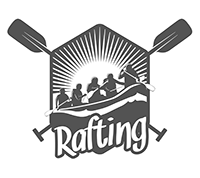
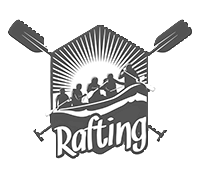
contact us page with forms

diff --git a/wwr/contactus.html b/wwr/contactus.html
@@ -1,0 +1,80 @@
+<!DOCTYPE html>
+<html lang="en">
+<head>
+    <meta charset="UTF-8">
+    <meta name="viewport" content="width=device-width, initial-scale=1.0">
+    <title>Rafting | Contact Us</title>
+    <link rel="stylesheet" href="styles/style.css">
+</head>
+<body>
+    <div class="content">
+        <header>
+            <a id = "logo_link" href = "index.html">
+            <img class = "logo" src = "images/rafting.png" alt = "Dry Oar Logo">
+            </a>
+            <nav>
+                <a href="index.html">Home</a>
+                <a href="faq.html" target="_blank">FAQ</a>
+                <a href="site-plan-rafting.html" target="_blank">Site Plan</a>
+                <a href="contactus.html" target="_blank">Contact Us</a>
+            </nav>
+        </header>
+        <main class="contact">
+            <div id="feedback"></div>
+            <h1>Contact Us Here</h1>
+            <form action="/my-handling-form-page" method="post">
+                <ul>
+                  <li>
+                    <label for="name">Name:</label>
+                    <input type="text" required id="name" name="user_name" />
+                  </li>
+                  <li>
+                    <label for="mail">Email:</label>
+                    <input type="email" required id="mail" name="user_email" placeholder="youremail@here.com" />
+                  </li>
+                  <li>
+                    <label for="msg">Message:</label>
+                    <textarea id="msg" name="user_message"></textarea>
+                  </li>
+                  <li class="button">
+                    <button type="submit">Submit</button>
+                  </li>
+                </ul>
+              </form>
+        </main>
+        <footer>
+            <p>Dry Oar &copy; 2024 - Makay Balzen</p>
+            <p><a href="site-plan-rafting.html">Site Plan</a></p>
+            <p><a href="contactus.html">Contact Us</a></p>
+            <div class="social">
+                <a href="https://facebook.com" target="_blank">
+                    <img src="images/facebook.png" alt="fb icon">
+                </a>
+                <a href="https://twitter.com" target="_blank">
+                    <img src="images/twitter.png" alt="twitter icon">
+                </a>
+                <a href="https://instagram.com" target="_blank">
+                    <img src="images/instagram.png" alt="instagram icon">
+                </a>
+            </div>
+        </footer>
+    </div>
+    <script>
+        // get the feedback div element so we can do something with it.
+        const feedbackElement = document.getElementById('feedback');
+        // get the form so we can read what was entered in it.
+        const formElement = document.forms[0];
+        // add a 'listener' to wait for a submission of our form. When that happens run the code below.
+        formElement.addEventListener('submit', function(e) {
+            // stop the form from doing the default action.
+            e.preventDefault();
+            // set the contents of our feedback element to a message letting the user know the form was submitted successfully. Notice that we pull the name that was entered in the form to personalize the message!
+            feedbackElement.innerHTML = 'Hello '+ formElement.user_name.value +'! Thank you for your message. We will get back with you as soon as possible!';
+            // make the feedback element visible.
+            feedbackElement.style.display = "block";
+            // add a class to move everything down so our message doesn't cover it.
+            document.body.classList.toggle('moveDown');
+        });
+    </script>
+</body>
+</html>

diff --git a/wwr/styles/style.css b/wwr/styles/style.css
@@ -57,7 +57,7 @@ nav a:hover {
     border-radius: 25px;
 }
 .book {
-    background-color: #d9c2a3;
+    background-color: #cfb189;
     color: white;
     text-decoration: none;
     font-size: 20px;
@@ -196,7 +196,116 @@ footer p a:hover {
 }
 
 /* FAQ CSS */
+@import url('https://fonts.googleapis.com/css2?family=Poppins:ital,wght@0,100;0,200;0,300;0,400;0,500;0,600;0,700;0,800;0,900;1,100;1,200;1,300;1,400;1,500;1,600;1,700;1,800;1,900&display=swap');
+#background {
+    width: 100%;
+    background-color: grey;
+    padding: 20px;
+}
+body {
+    background-color: white;
+}
+.main-title {
+    color: white;
+    font-family: "Ojuju", "Oswald", sans-serif;
+}
+input {
+    width: 60%;
+    color: black;
+}
+::placeholder {
+    color:gray
+}
 
+/* Contact Us CSS */
+.contact h1 {
+    text-align: center;
+    margin: 100px;
+}
+form {
+    /* Center the form on the page */
+    margin: 0 auto;
+    width: 600px;
+    /* Form outline */
+    padding: 1em;
+    border: 1px solid #ccc;
+    border-radius: 1em;
+  }
+  
+  ul {
+    list-style: none;
+    padding: 0;
+    margin: 0;
+    padding-left: 80px;
+  }
+  
+  form li + li {
+    margin-top: 1em;
+  }
+  
+  label {
+    /* Uniform size & alignment */
+    display: inline-block;
+    width: 90px;
+    text-align: right;
+    padding-right: 5px;
+  }
+  
+  input,
+  textarea {
+    /* To make sure that all text fields have the same font settings
+       By default, textareas have a monospace font */
+    font: 1em sans-serif;
+  
+    /* Uniform text field size */
+    width: 300px;
+    box-sizing: border-box;
+  
+    /* Match form field borders */
+    border: 1px solid #999;
+    padding: 10px;
+  }
+  
+  input:focus,
+  textarea:focus {
+    /* Additional highlight for focused elements */
+    border-color: #000;
+  }
+  
+  textarea {
+    /* Align multiline text fields with their labels */
+    vertical-align: top;
+  
+    /* Provide space to type some text */
+    height: 5em;
+  }
+  
+  .button {
+    /* Align buttons with the text fields */
+    padding-left: 90px; /* same size as the label elements */
+  }
+  
+  button {
+    /* This extra margin represent roughly the same space as the space
+       between the labels and their text fields */
+    margin-left: 0.5em;
+    padding: 10px;
+    font-size: 14px;
+    border-radius: 30px;
+  }
+  #feedback {
+    background-color: white;
+    position: absolute;
+    top: 0;
+    left: 0;
+    right: 0;
+    padding: .5em;
+    /* make this element invisible until we are ready for it */
+    display: none;      
+}
+.moveDown {
+    margin-top: 3em;
+}
 @media screen and (max-width: 900px) {
     #hero, .home-grid {
         display: block;

diff --git a/wwr/faq.html b/wwr/faq.html
@@ -3,14 +3,14 @@
 <head>
     <meta charset="UTF-8">
     <meta name="viewport" content="width=device-width, initial-scale=1.0">
-    <title>Rafting | Frequently Asked Questions</title>
+    <title>Rafting | FAQ</title>
     <link rel="stylesheet" href="styles/style.css">
 </head>
 <body>
     <div class="content">
         <header>
             <a id = "logo_link" href = "index.html">
-            <img class = "logo" src = "images/logo.png" alt = "Dry Oar Logo">
+            <img class = "logo" src = "images/rafting.png" alt = "Dry Oar Logo">
             </a>
             <nav>
                 <a href="index.html">Home</a>
@@ -20,6 +20,12 @@
             </nav>
         </header>
         <main class="faq-grid">
+            <div class="background">
+                <section id="hero-msg">
+                    <h1 class="main-title">What Questions do you Have?</h1>
+                    <input type="text" placeholder="what can I help you find?">
+                    <img src="images/rafting.png" alt="Logo Image">
+            </div>
         </main>
         <footer>
             <p>Dry Oar &copy; 2024 - Makay Balzen</p>

diff --git a/wwr/index.html b/wwr/index.html
@@ -10,11 +10,11 @@
     <div class="content">
         <header>
             <a id = "logo_link" href = "index.html">
-            <img class = "logo" src = "images/logo.png" alt = "Dry Oar Logo">
+            <img class = "logo" src = "images/rafting.png" alt = "Dry Oar Logo">
             </a>
             <nav>
                 <a href="index.html">Home</a>
-                <a href="faq.html" target="_blank">Frequently Asked Questions</a>
+                <a href="faq.html" target="_blank">FAQ</a>
                 <a href="site-plan-rafting.html" target="_blank">Site Plan</a>
                 <a href="contactus.html" target="_blank">Contact Us</a>
             </nav>
